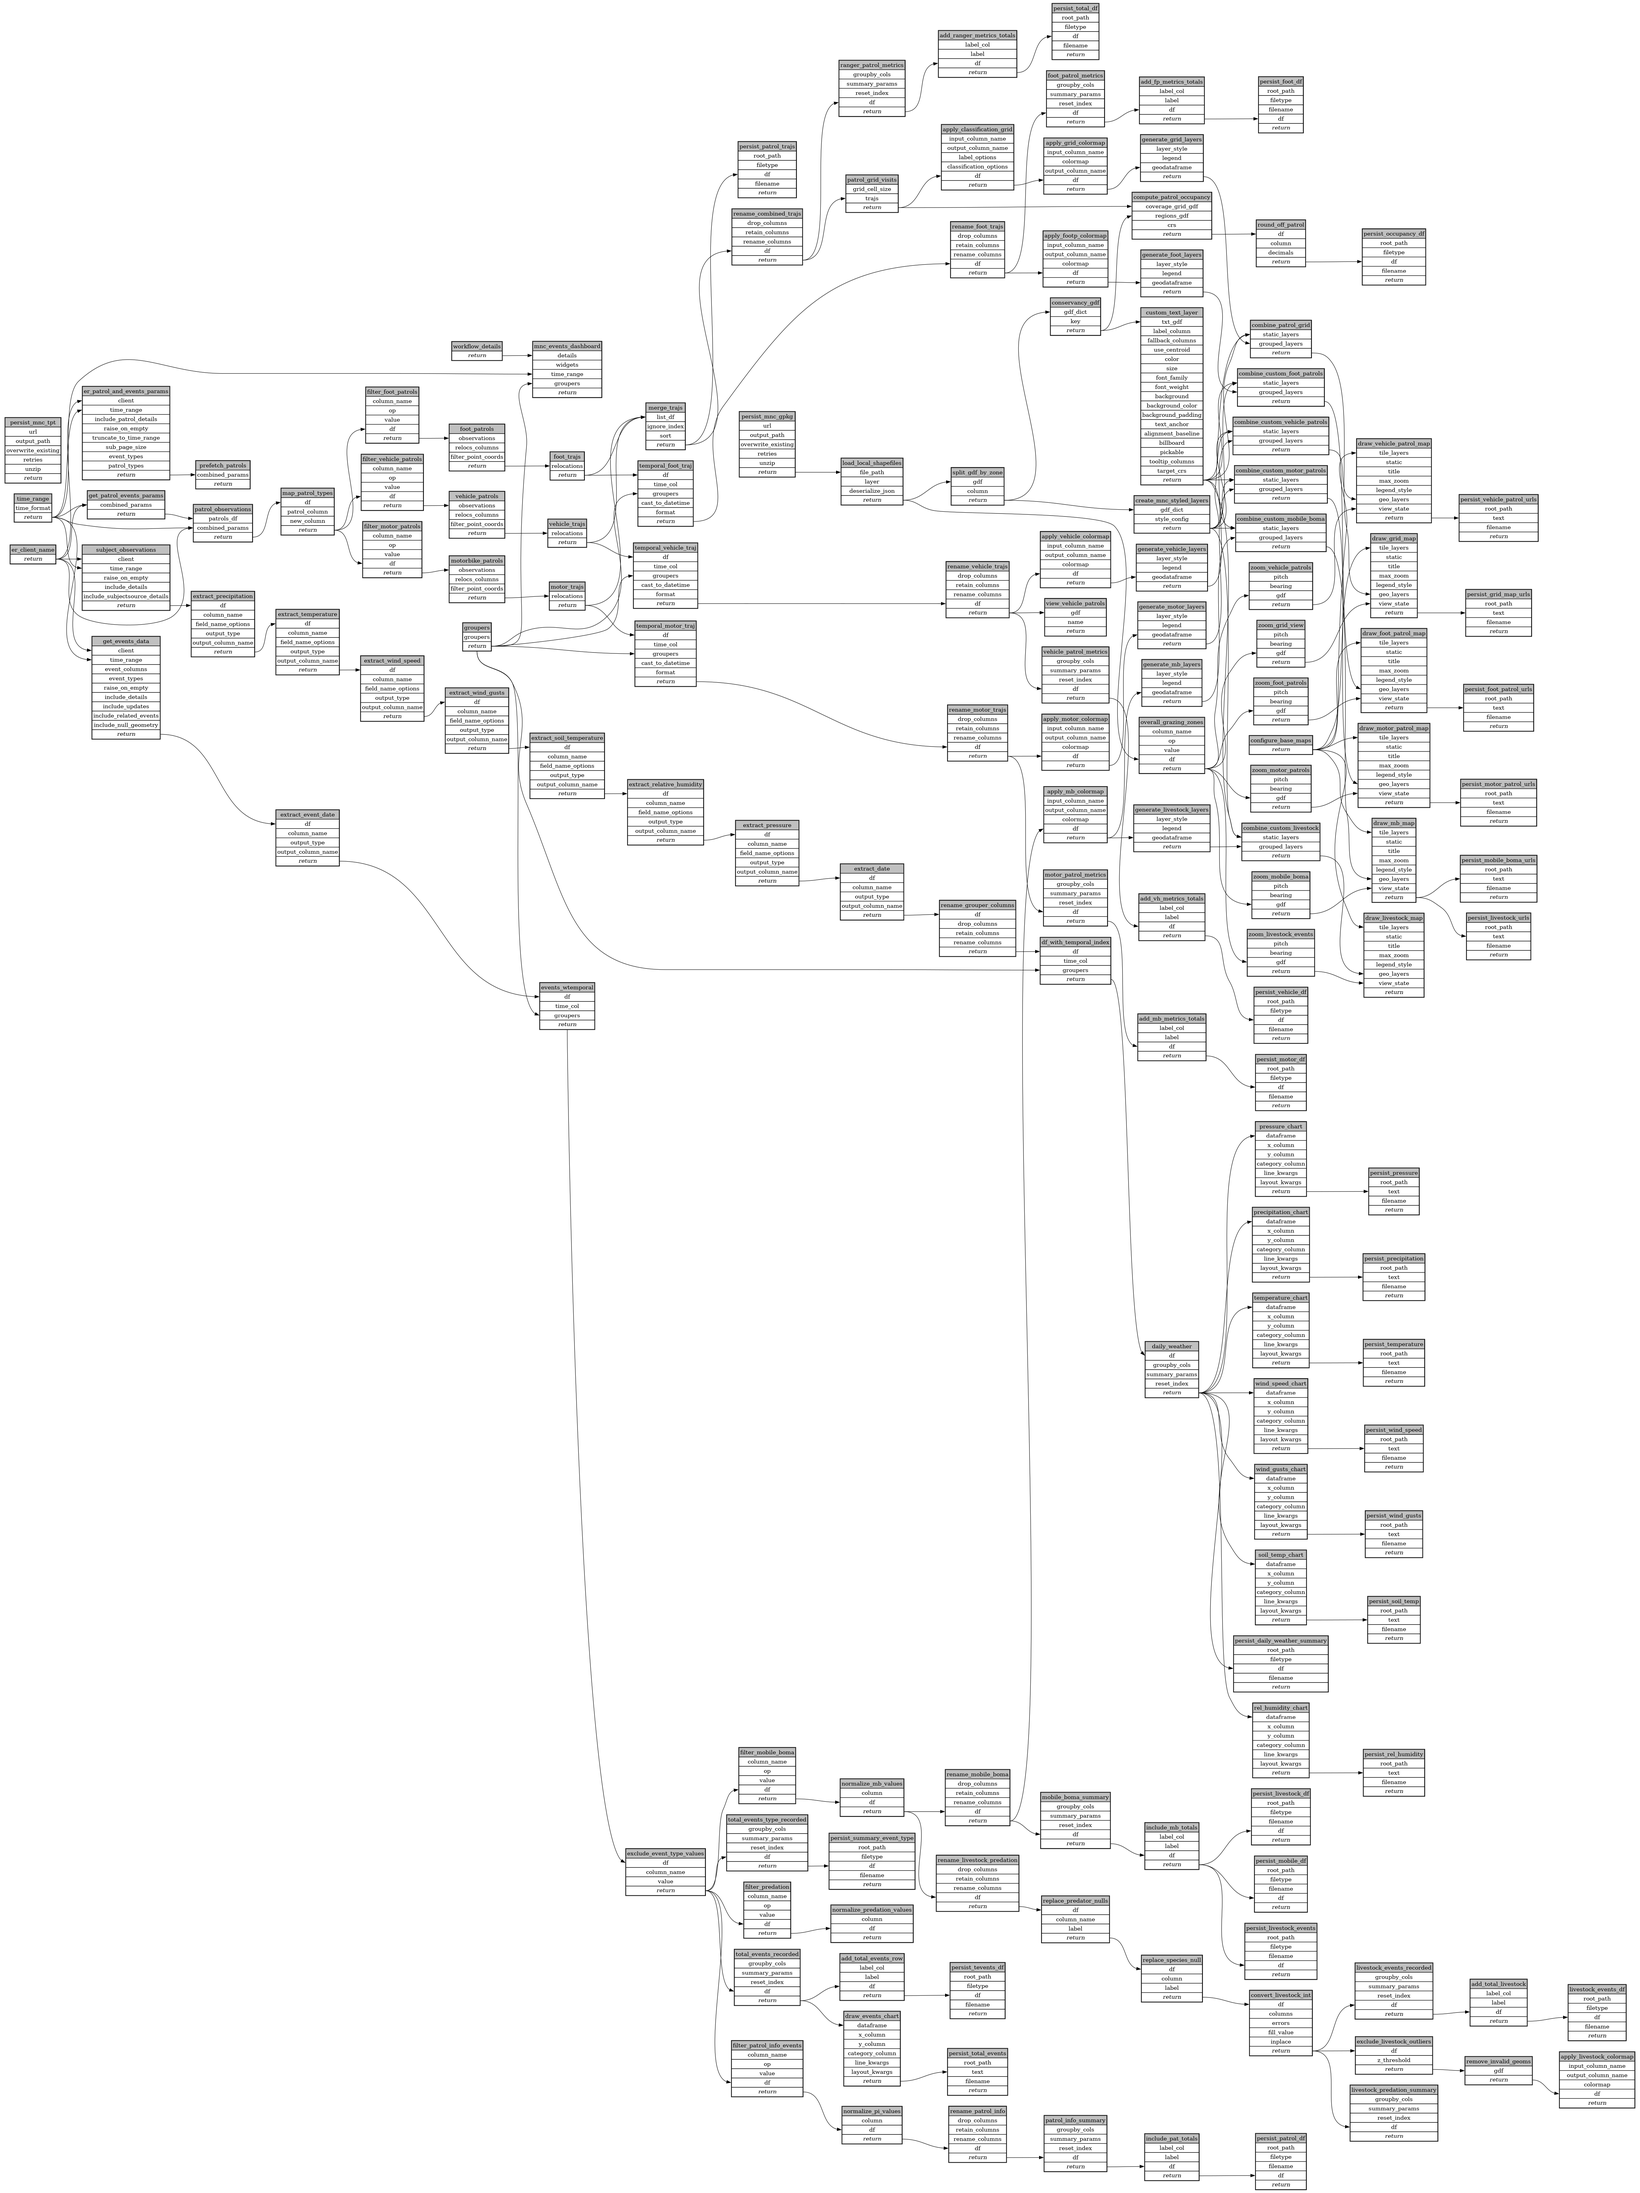
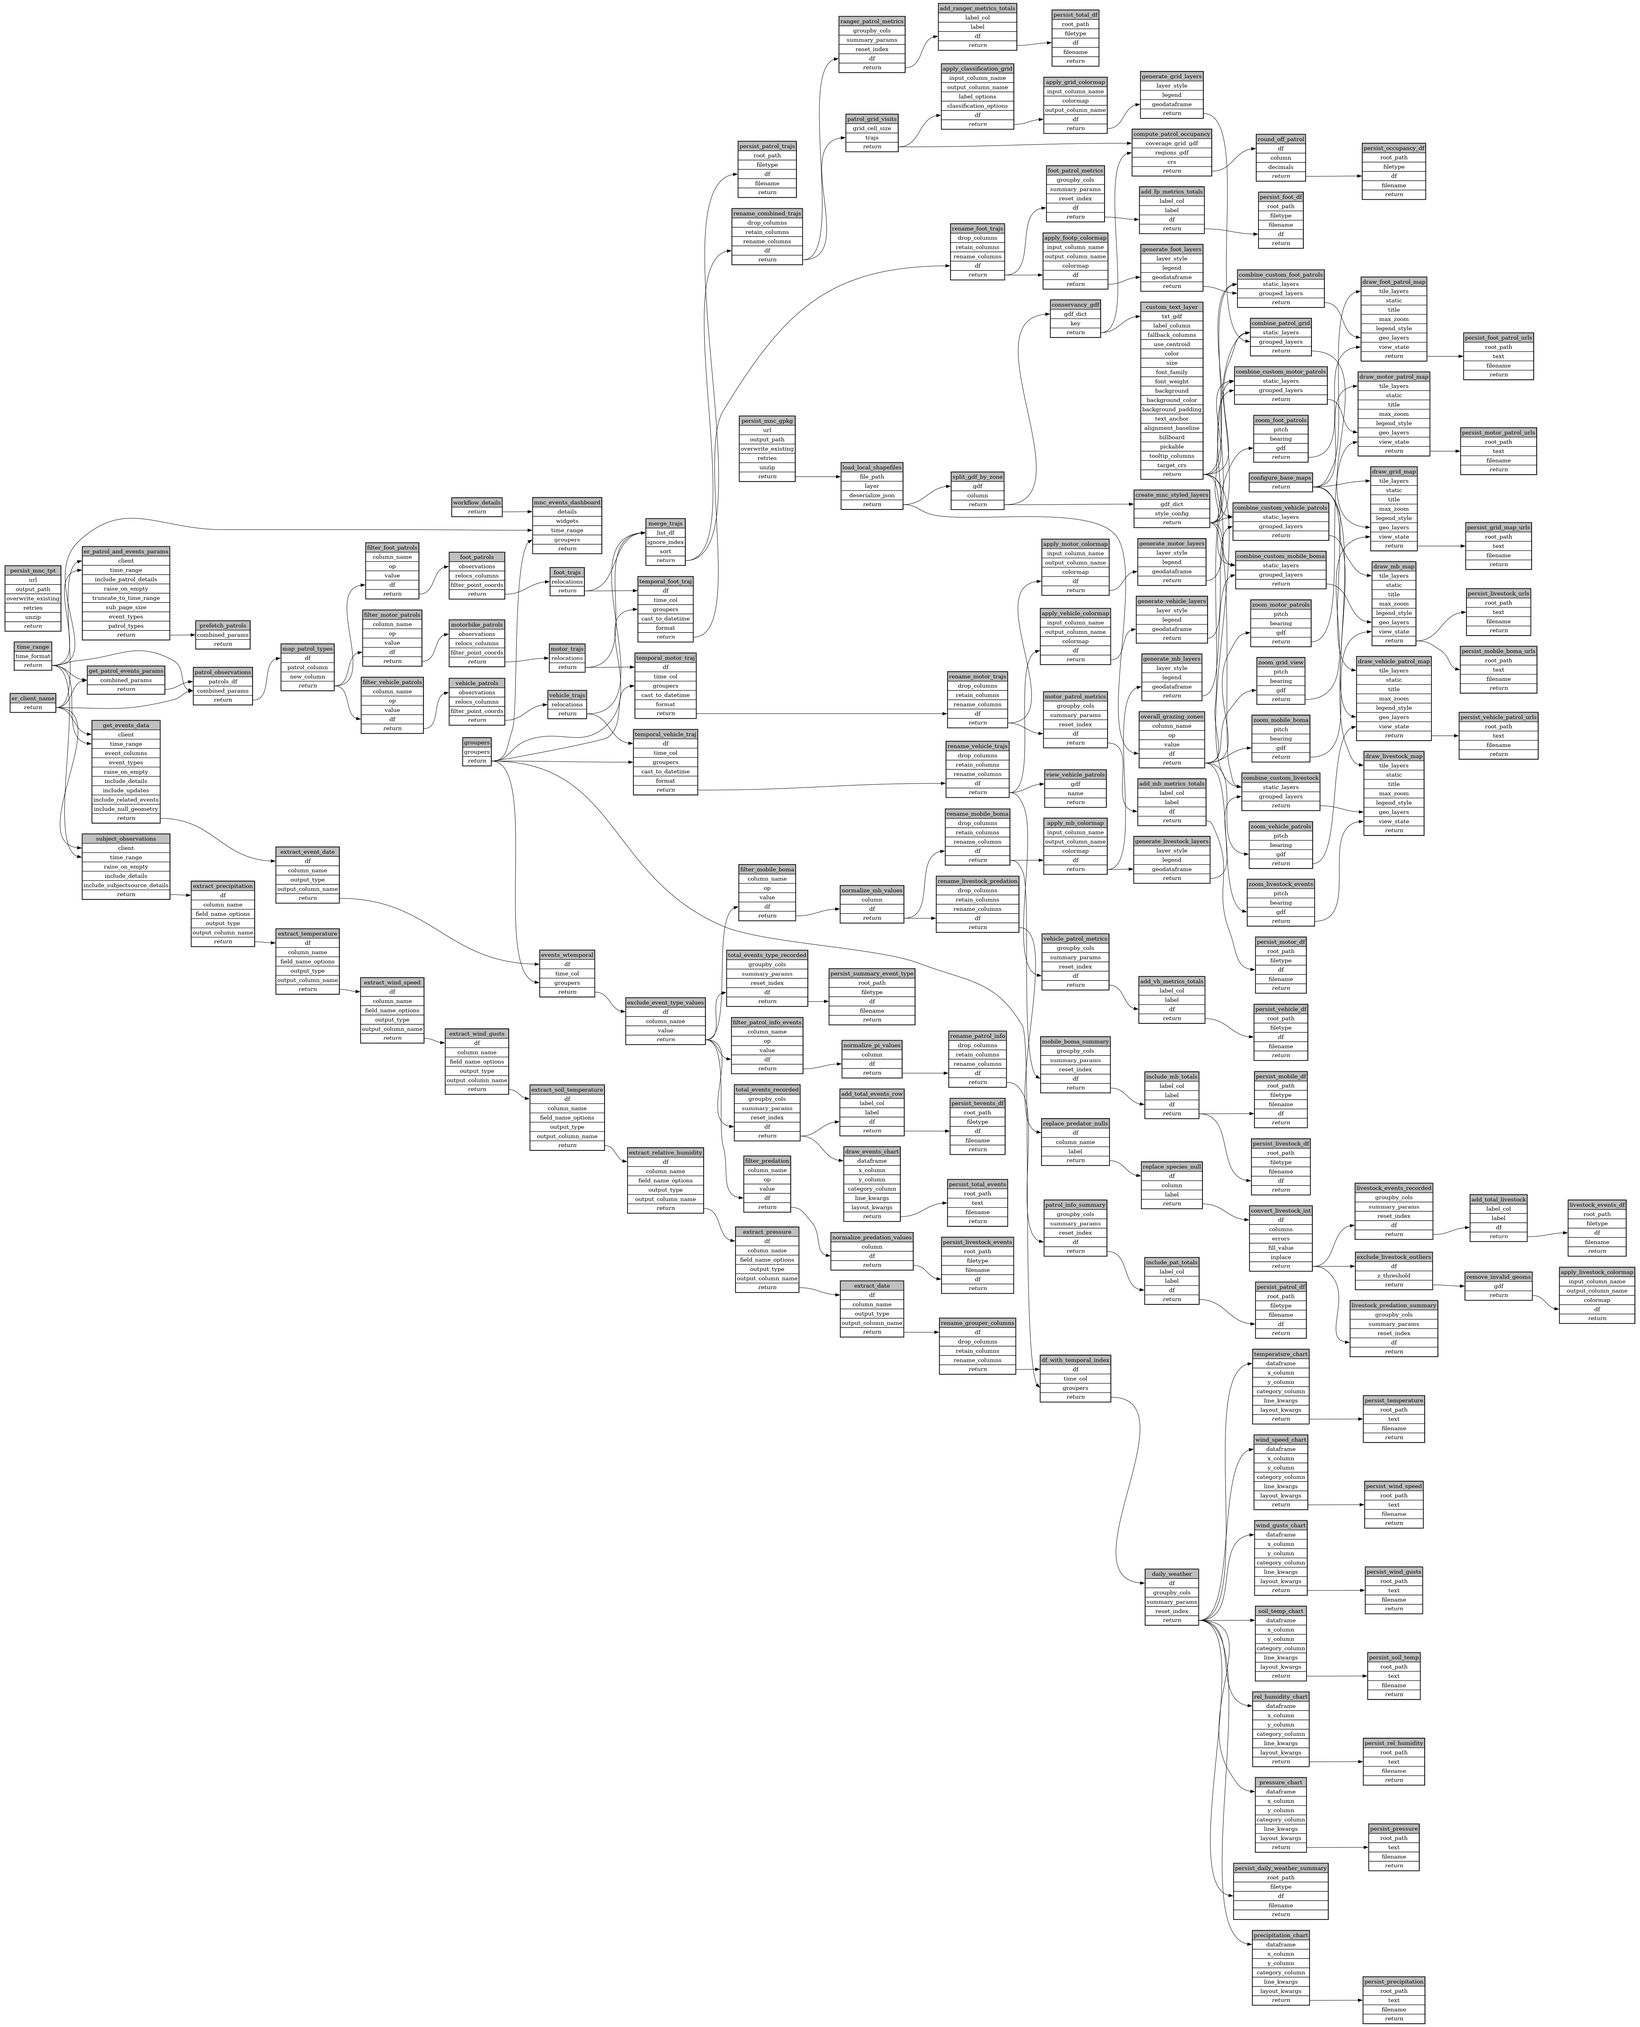
persist livestock predation events as .csv

diff --git a/workflows/mara_north_event_report/ecoscope-workflows-mara-north-event-report-workflow/ecoscope_workflows_mara_north_event_report_workflow/dags/run_async.py b/workflows/mara_north_event_report/ecoscope-workflows-mara-north-event-report-workflow/ecoscope_workflows_mara_north_event_report_workflow/dags/run_async.py
@@ -253,7 +253,7 @@ def main(params: Params):
         "persist_mobile_boma_urls": ["draw_mb_map"],
         "filter_predation": ["exclude_event_type_values"],
         "normalize_predation_values": ["filter_predation"],
-        "persist_livestock_events": ["include_mb_totals"],
+        "persist_livestock_events": ["normalize_predation_values"],
         "rename_livestock_predation": ["normalize_mb_values"],
         "replace_predator_nulls": ["rename_livestock_predation"],
         "replace_species_null": ["replace_predator_nulls"],
@@ -2784,7 +2784,7 @@ def main(params: Params):
                 "root_path": os.environ["ECOSCOPE_WORKFLOWS_RESULTS"],
                 "filetype": "csv",
                 "filename": "livestock_preds",
-                "df": DependsOn("include_mb_totals"),
+                "df": DependsOn("normalize_predation_values"),
             }
             | (params_dict.get("persist_livestock_events") or {}),
             method="call",

diff --git a/workflows/mara_north_event_report/ecoscope-workflows-mara-north-event-report-workflow/ecoscope_workflows_mara_north_event_report_workflow/dags/run_async_mock_io.py b/workflows/mara_north_event_report/ecoscope-workflows-mara-north-event-report-workflow/ecoscope_workflows_mara_north_event_report_workflow/dags/run_async_mock_io.py
@@ -299,7 +299,7 @@ def main(params: Params):
         "persist_mobile_boma_urls": ["draw_mb_map"],
         "filter_predation": ["exclude_event_type_values"],
         "normalize_predation_values": ["filter_predation"],
-        "persist_livestock_events": ["include_mb_totals"],
+        "persist_livestock_events": ["normalize_predation_values"],
         "rename_livestock_predation": ["normalize_mb_values"],
         "replace_predator_nulls": ["rename_livestock_predation"],
         "replace_species_null": ["replace_predator_nulls"],
@@ -2830,7 +2830,7 @@ def main(params: Params):
                 "root_path": os.environ["ECOSCOPE_WORKFLOWS_RESULTS"],
                 "filetype": "csv",
                 "filename": "livestock_preds",
-                "df": DependsOn("include_mb_totals"),
+                "df": DependsOn("normalize_predation_values"),
             }
             | (params_dict.get("persist_livestock_events") or {}),
             method="call",

diff --git a/workflows/mara_north_event_report/ecoscope-workflows-mara-north-event-report-workflow/ecoscope_workflows_mara_north_event_report_workflow/dags/run_sequential.py b/workflows/mara_north_event_report/ecoscope-workflows-mara-north-event-report-workflow/ecoscope_workflows_mara_north_event_report_workflow/dags/run_sequential.py
@@ -2514,7 +2514,7 @@ def main(params: Params):
             root_path=os.environ["ECOSCOPE_WORKFLOWS_RESULTS"],
             filetype="csv",
             filename="livestock_preds",
-            df=include_mb_totals,
+            df=normalize_predation_values,
             **(params_dict.get("persist_livestock_events") or {}),
         )
         .call()

diff --git a/workflows/mara_north_event_report/ecoscope-workflows-mara-north-event-report-workflow/ecoscope_workflows_mara_north_event_report_workflow/dags/run_sequential_mock_io.py b/workflows/mara_north_event_report/ecoscope-workflows-mara-north-event-report-workflow/ecoscope_workflows_mara_north_event_report_workflow/dags/run_sequential_mock_io.py
@@ -2560,7 +2560,7 @@ def main(params: Params):
             root_path=os.environ["ECOSCOPE_WORKFLOWS_RESULTS"],
             filetype="csv",
             filename="livestock_preds",
-            df=include_mb_totals,
+            df=normalize_predation_values,
             **(params_dict.get("persist_livestock_events") or {}),
         )
         .call()

diff --git a/workflows/mara_north_event_report/ecoscope-workflows-mara-north-event-report-workflow/ecoscope_workflows_mara_north_event_report_workflow/dags/jupytext.py b/workflows/mara_north_event_report/ecoscope-workflows-mara-north-event-report-workflow/ecoscope_workflows_mara_north_event_report_workflow/dags/jupytext.py
@@ -4221,7 +4221,7 @@ persist_livestock_events = (
         root_path=os.environ["ECOSCOPE_WORKFLOWS_RESULTS"],
         filetype="csv",
         filename="livestock_preds",
-        df=include_mb_totals,
+        df=normalize_predation_values,
         **persist_livestock_events_params,
     )
     .call()

diff --git a/workflows/mara_north_event_report/ecoscope-workflows-mara-north-event-report-workflow/README.md b/workflows/mara_north_event_report/ecoscope-workflows-mara-north-event-report-workflow/README.md
@@ -5,8 +5,8 @@
 
 ```yaml
 # fingerprint:
-artifacts_sha256_basic: d20d3c33d7a00fe14550a76d04503e99d7a9623df30645801b5e6356c6826c5b
-artifacts_sha256_strict: 394954ddc99937da22c1dea43224fa75f86c5a528d7e754e3fae6f82e9bd48c0
+artifacts_sha256_basic: c776d65bfaba72ad589ea81bdfaa537f1d1295308cedfd6f364185401ba4382e
+artifacts_sha256_strict: 2a283bc506ae37fb0dc1a1bf65e8289ec717a536492471e662f31e92dd41fcff
 installed_requirements:
 - channel: https://repo.prefix.dev/ecoscope-workflows/
   name: ecoscope-workflows-core
@@ -21,7 +21,7 @@ installed_requirements:
   name: ecoscope-workflows-ext-mnc
   version: {version: ==10000.dev93+g2bdedc52b.d20251123}
 params_sha256: d0c8e87bc9573be90a1b757256c751bb8412633d4f6176b215f0e60ecb6cb8c6
-spec_sha256: 79e205d965baa15c8fced463b80233f79af45912deba4579498a3d2c19d3d0f5
+spec_sha256: 2f6eba8c2f39f8612ead83ac181c771a8688718cb60ebf68152170161e31999c
 
 ```
 
